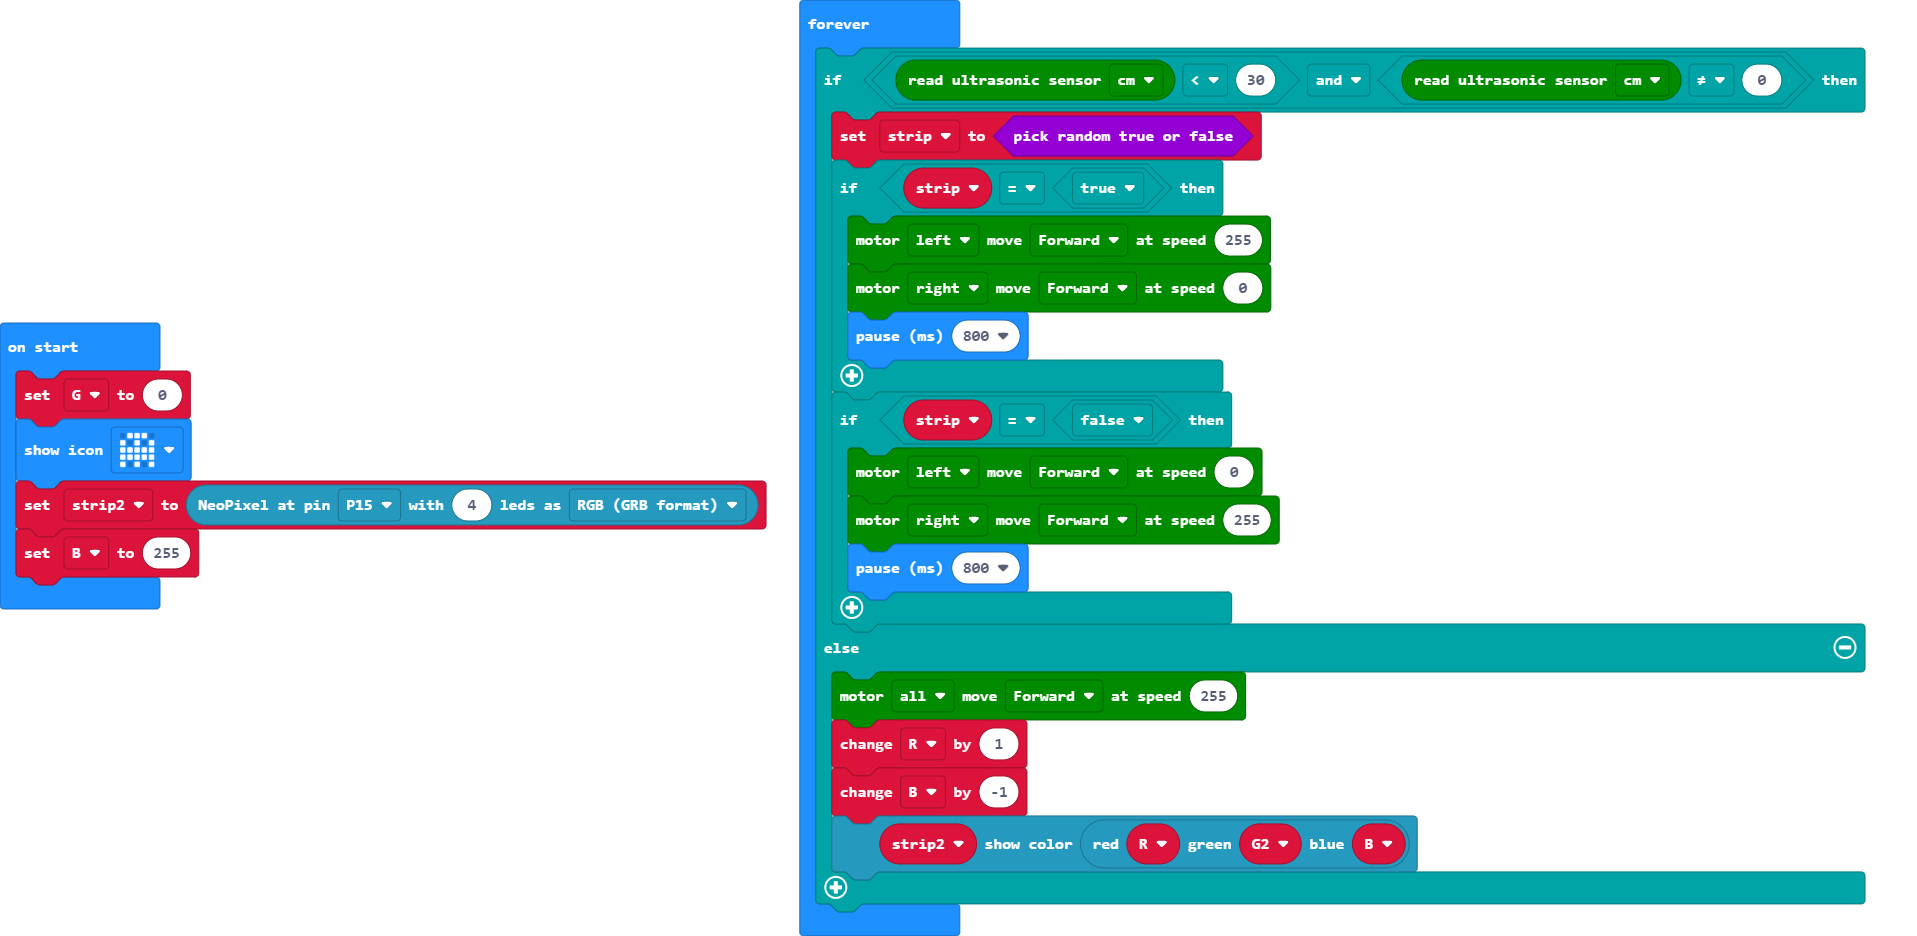
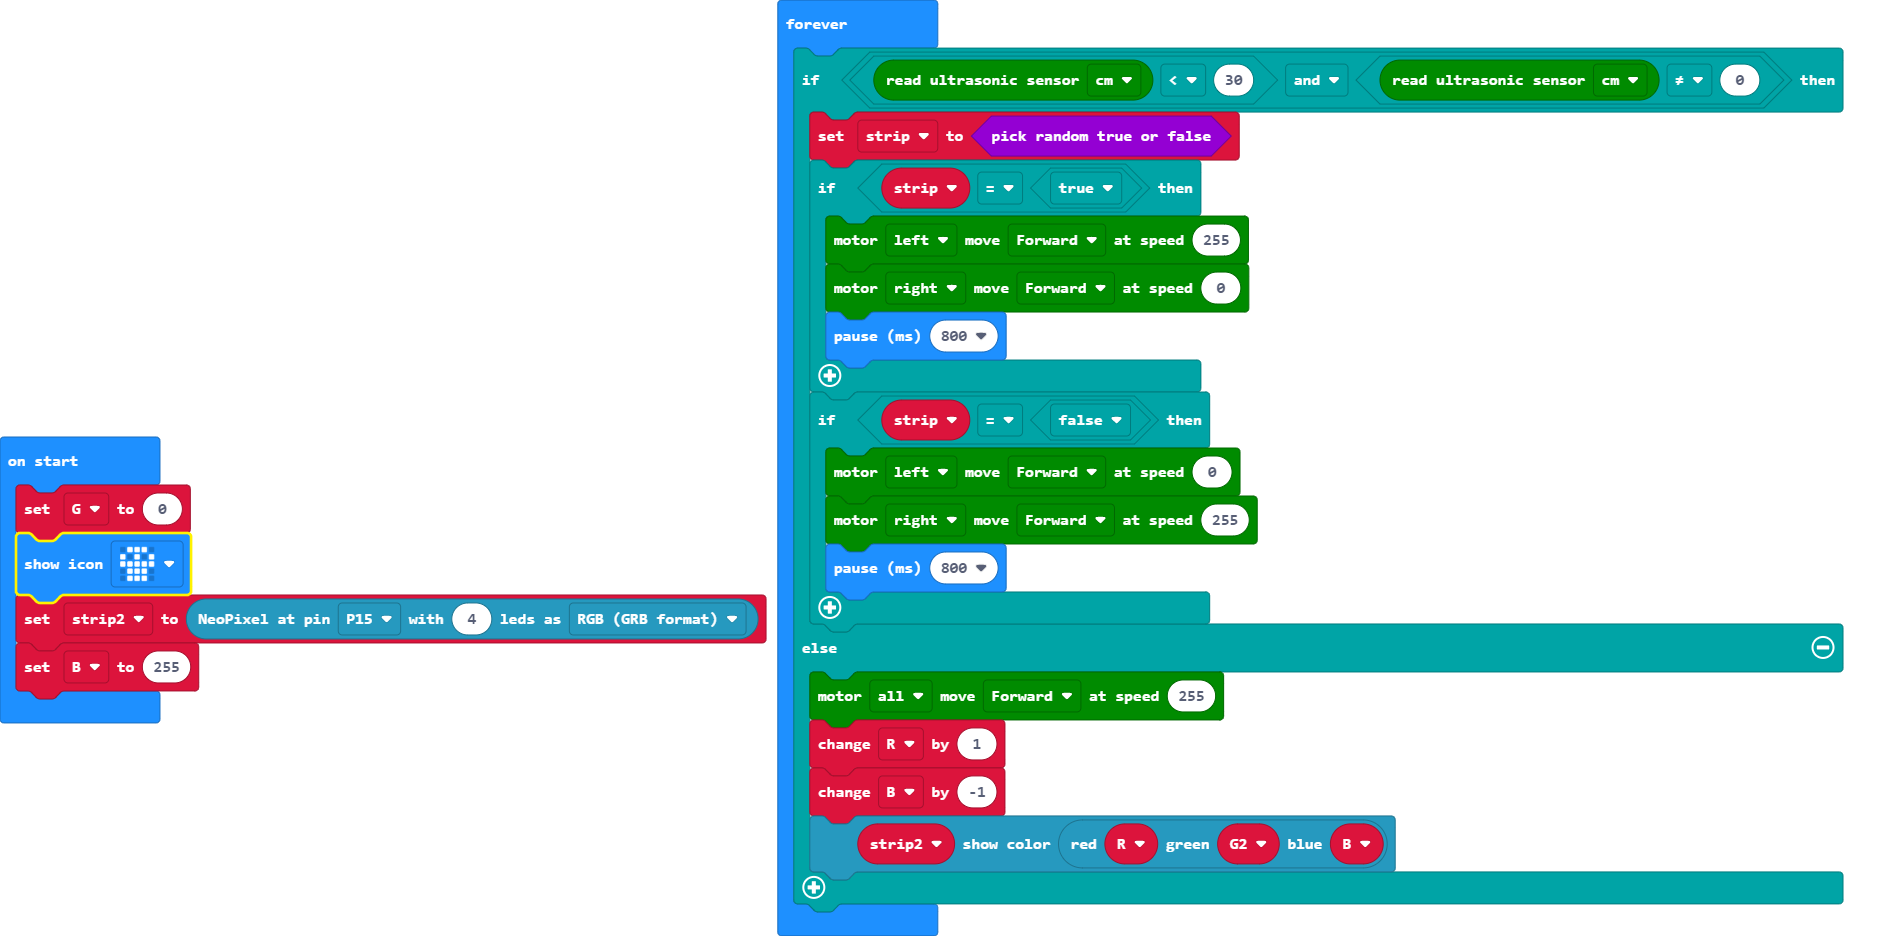
Update main.blocks, main.ts

diff --git a/main.ts b/main.ts
@@ -1,7 +1,7 @@
 let R = 0
 let strip = false
 let G = 0
-basic.showIcon(IconNames.Ghost)
+basic.showIcon(IconNames.Skull)
 let strip2 = neopixel.create(DigitalPin.P15, 4, NeoPixelMode.RGB)
 let B = 255
 basic.forever(function () {
